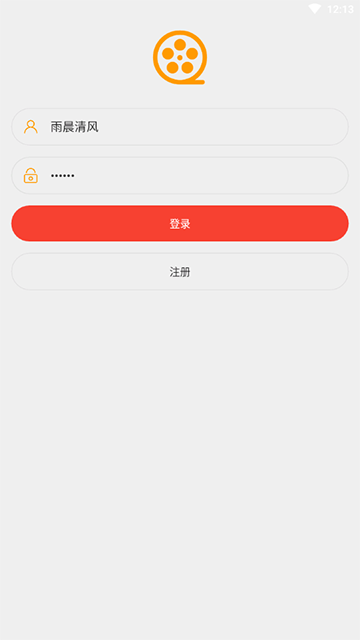
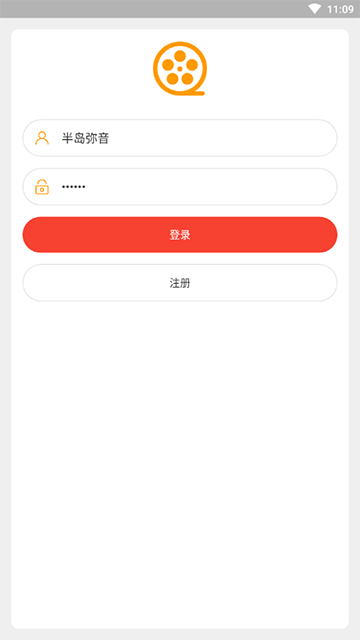
修改登录页面样式

Changed region(s): [[0.0306, 0.1875, 0.9778, 0.4688], [0.0, 0.0, 1.0, 0.1562], [0.1528, 0.25, 0.1833, 0.2812]]

diff --git a/lib/config/serviceUrl.dart b/lib/config/serviceUrl.dart
@@ -1,4 +1,4 @@
-const serviceUrl = 'http://192.168.0.105:5001'; //此端口针对于正版用户开放，可自行fiddle获取。
+const serviceUrl = 'http://192.168.0.103:5001'; //此端口针对于正版用户开放，可自行fiddle获取。
 const servicePath = {
   'getUserData': serviceUrl + '/service/movie/getUserData', // 获取用户信息
   'getCategoryList': serviceUrl + '/service/movie/getCategoryList', //获取分类影片

diff --git a/lib/pages/login_page.dart b/lib/pages/login_page.dart
@@ -27,6 +27,8 @@ class LoginPage extends StatelessWidget {
         backgroundColor: ThemeColors.colorBg,
         body: SafeArea(child: Container(
           padding: ThemeStyle.padding,
+          margin: ThemeStyle.padding,
+          decoration: ThemeStyle.boxDecoration,
           child: Column(
             children: <Widget>[
               Form(

diff --git a/README.md b/README.md
@@ -62,6 +62,8 @@ webview：webview_flutter: ^0.3.10+4
 
 react native版本参见: https://github.com/wuyuanwuhui99/react-native-app-ui
 
+harmony鸿蒙版本参见: https://github.com/wuyuanwuhui99/Harmony_movie_app_ui
+
 vue在线音乐项目：https://github.com/wuyuanwuhui99/vue-music-app-ui
 
 在线音乐后端项目：https://github.com/wuyuanwuhui99/koa2-music-app-service
